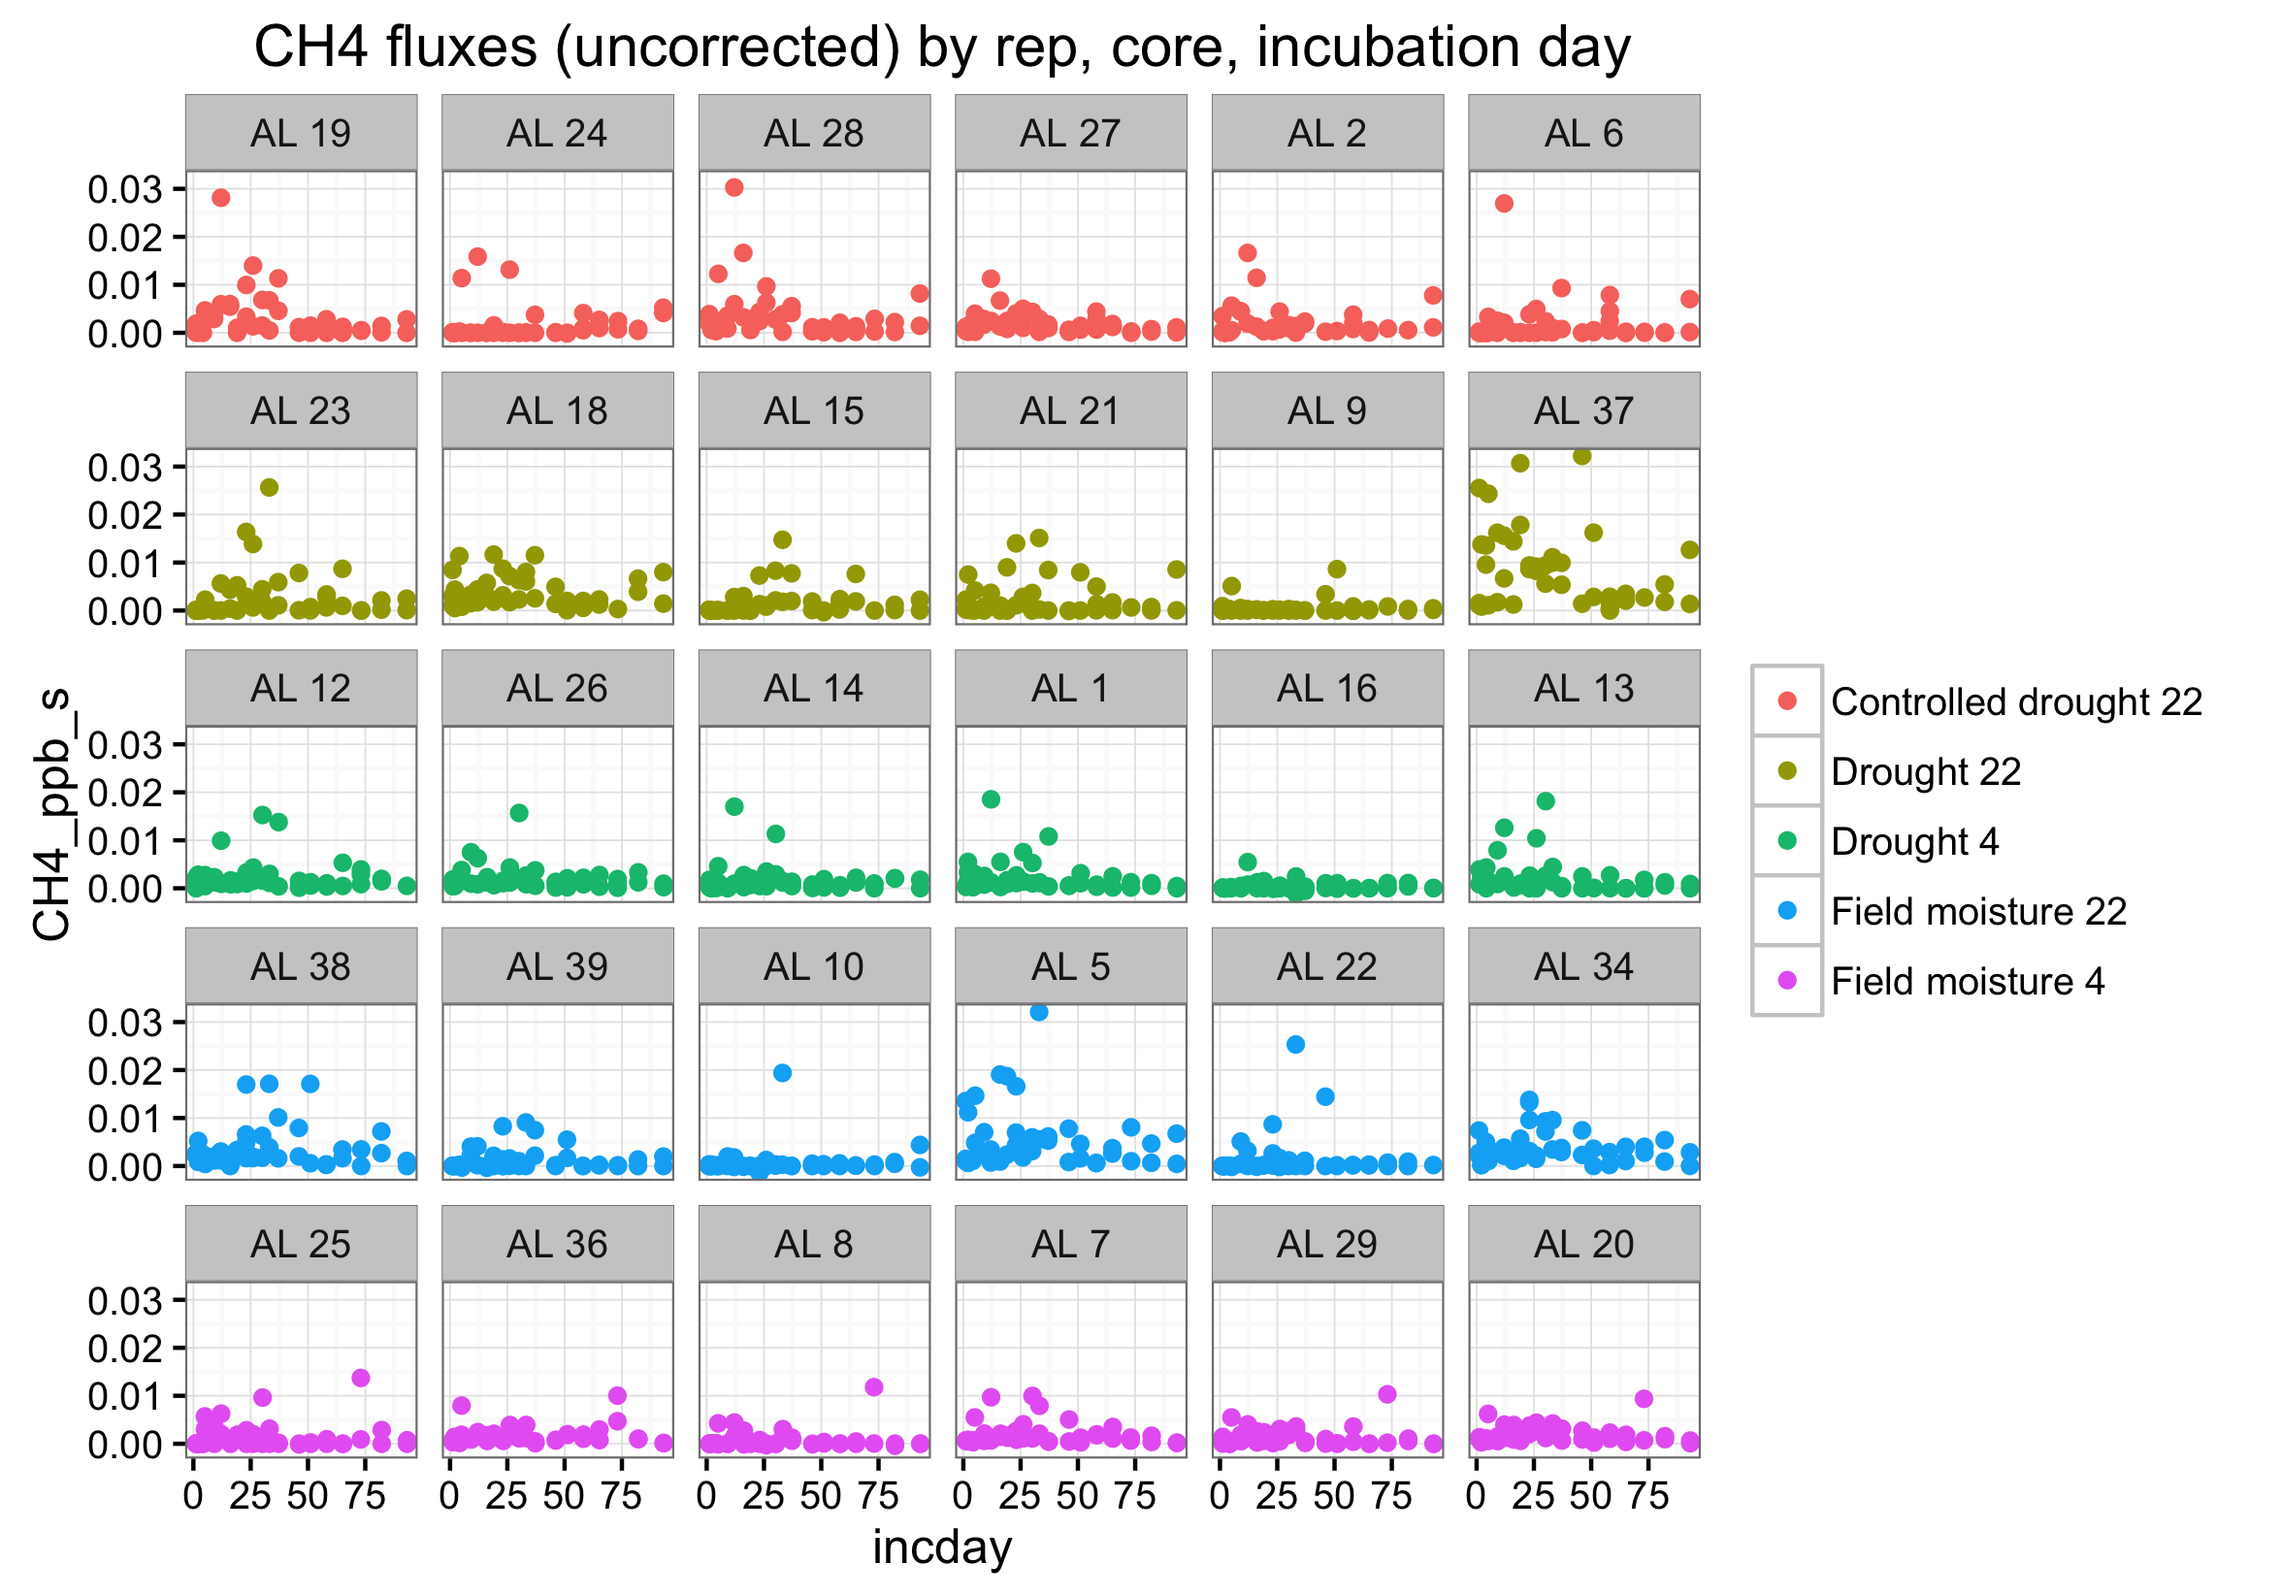
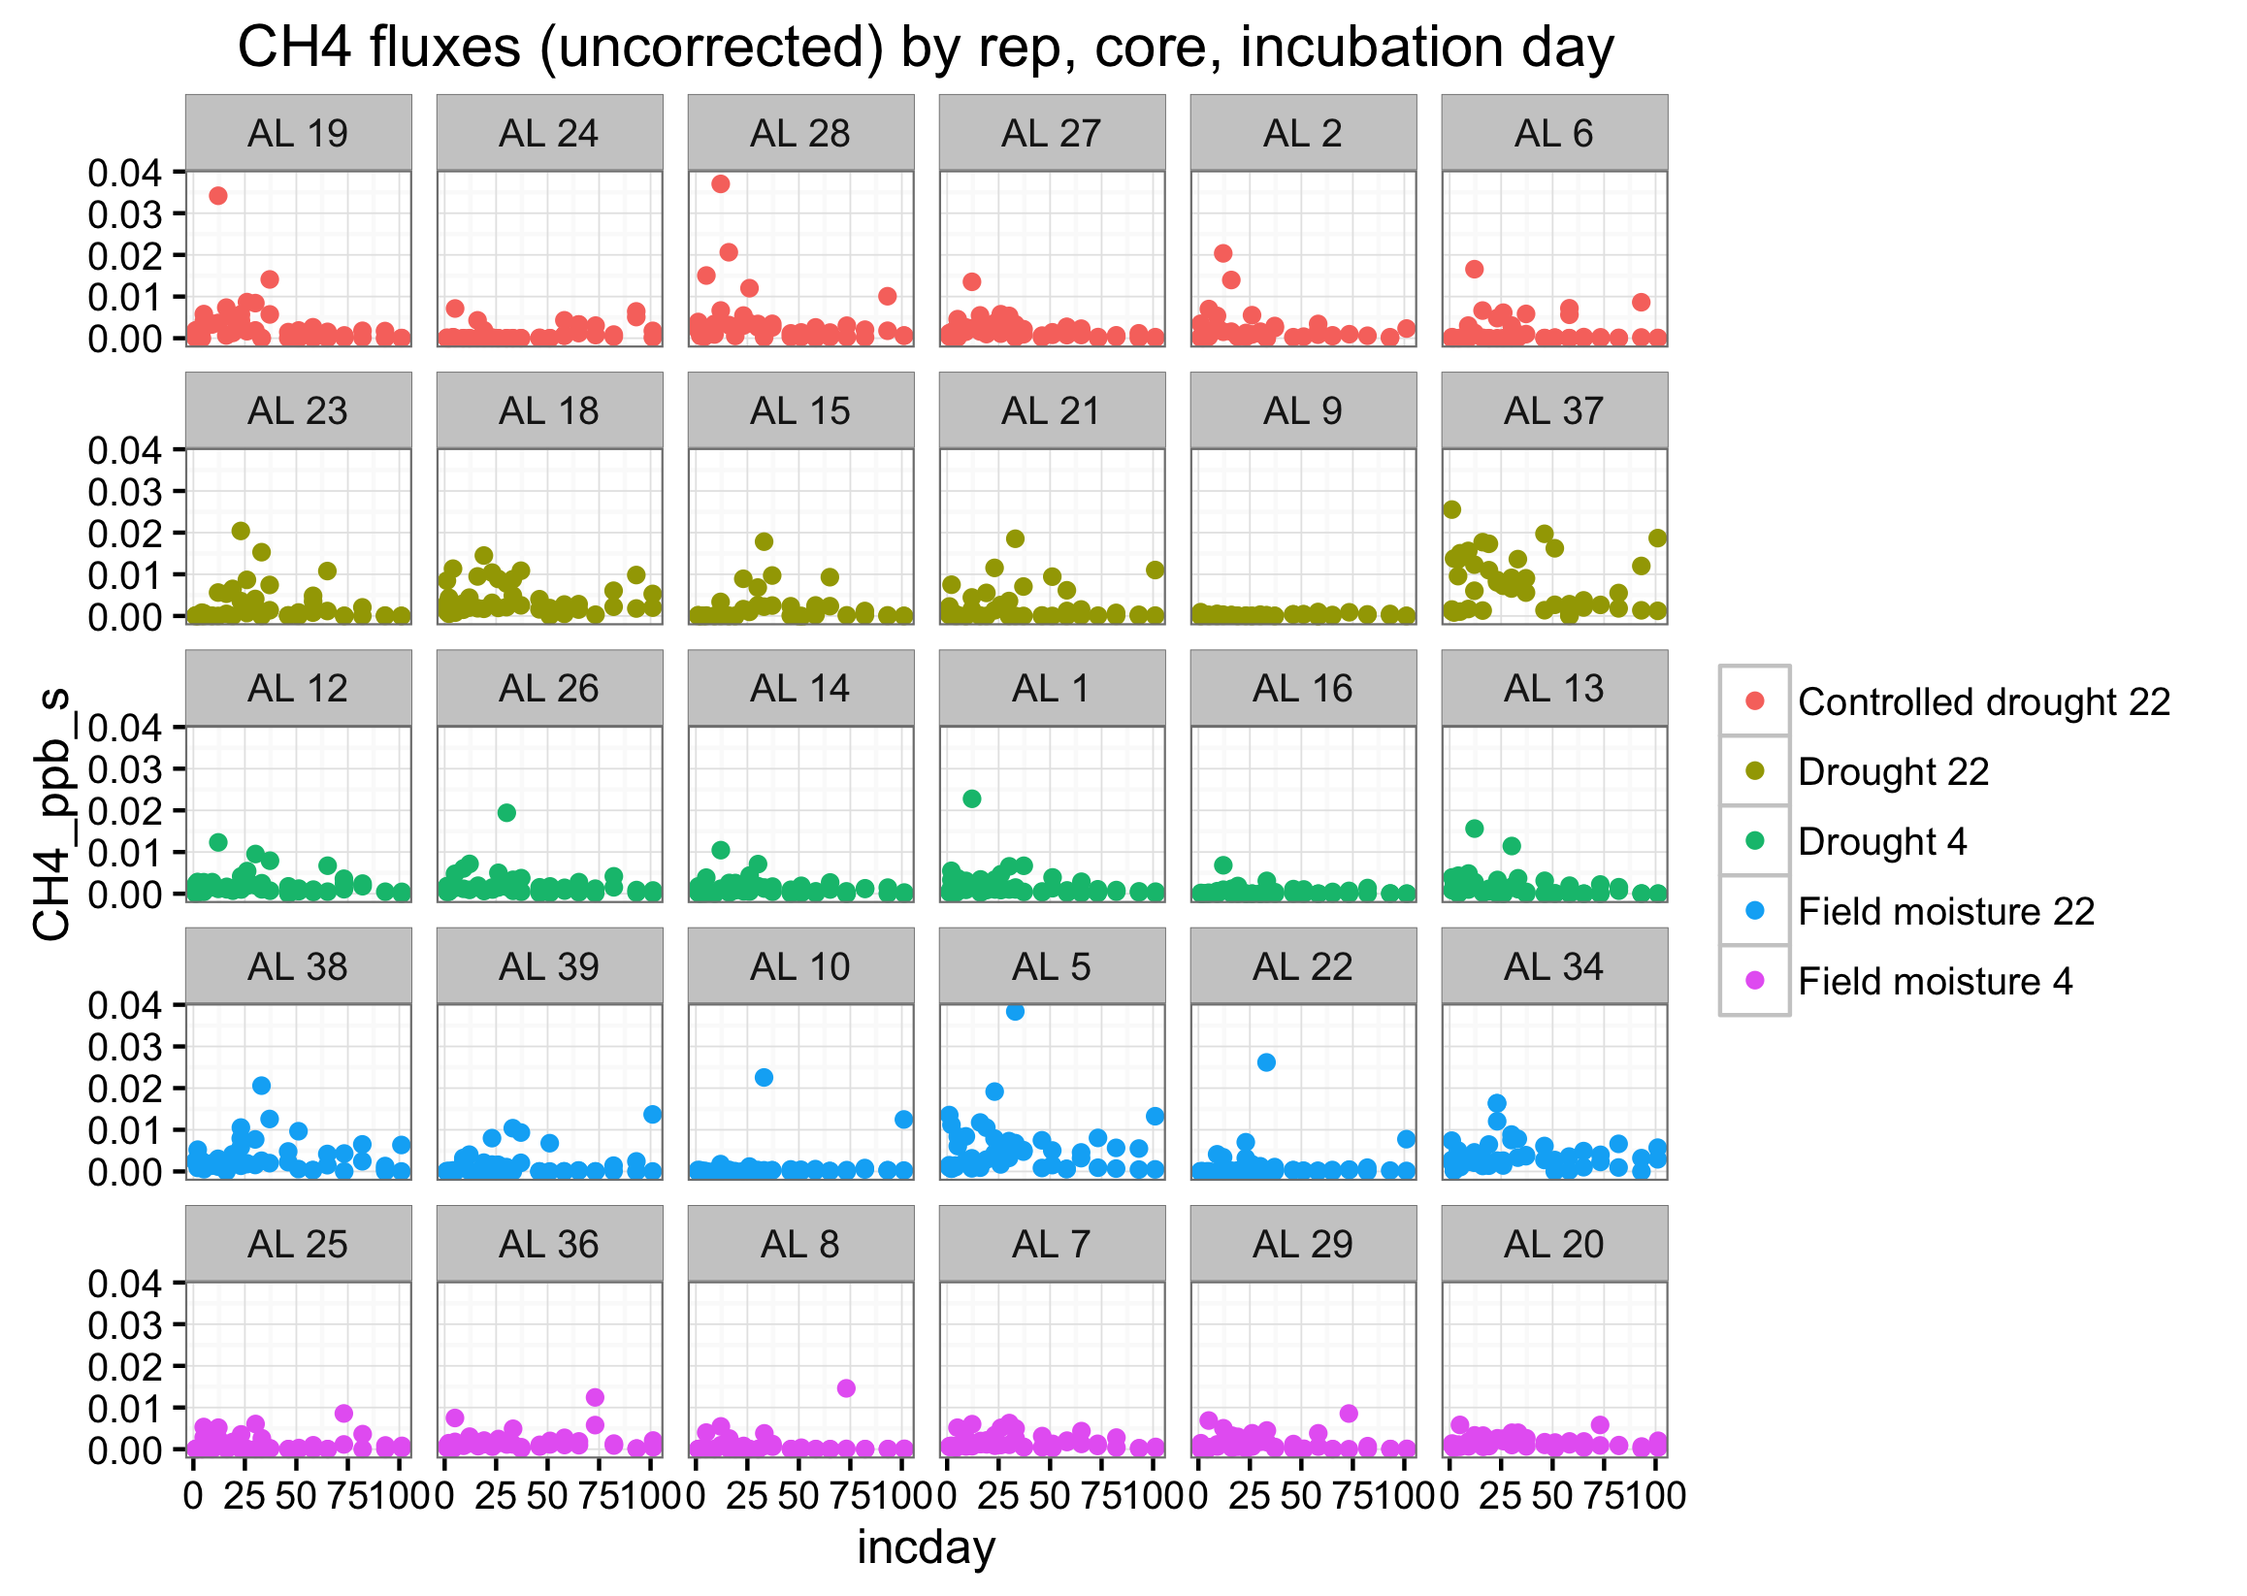
Removals added and QC script re-run

diff --git a/README.md b/README.md
@@ -8,9 +8,9 @@ This work is funded by DOE's [Terrestrial Ecosystem Science Program](http://tes.
 
 ## Current diagnostics
 
-Latest data: 2015-12-01 (incubation day 93)
+Latest data: 2015-12-09 (incubation day 101)
 
-Script run: 2015-12-02 05:17:54
+Script run: 2015-12-13 07:15:37
 
 ### Missing/problematic data
 
